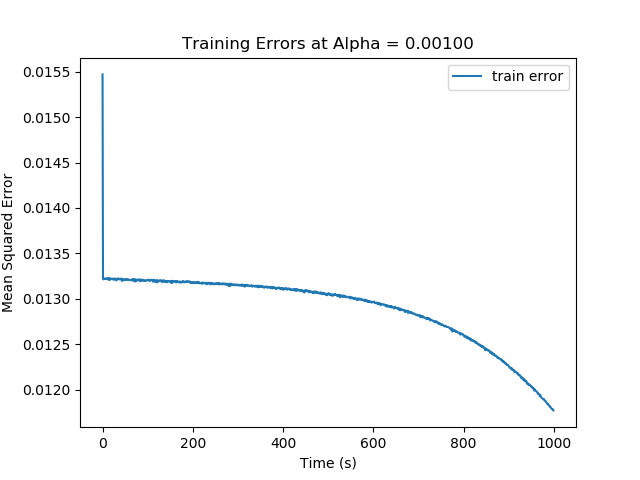
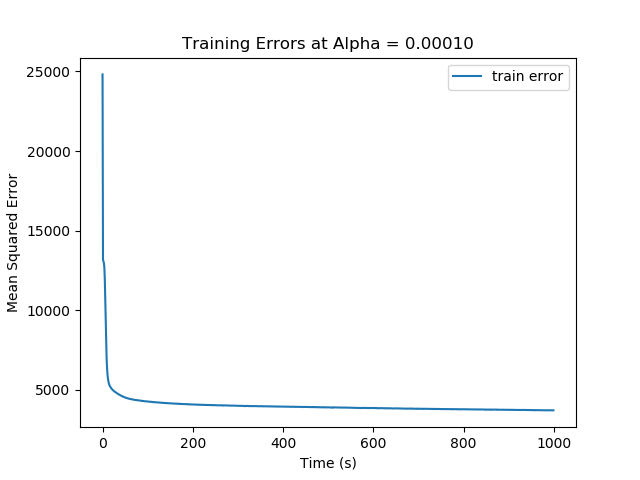
Add final plotting results

diff --git a/Project 1/Project_1b/function.py b/Project 1/Project_1b/function.py
@@ -50,108 +50,6 @@ def scale_normalize(data):
     return data_normalize
 
 
-def generateFunction(learning_rate, no_hidden=hidden):
-    x = T.matrix('x')  # data sample
-    d = T.matrix('d')  # desired output
-
-    w_o = init_weights(no_hidden, 1, False)
-    b_o = init_bias()
-    w_h1 = init_weights(1, no_hidden)
-    b_h1 = init_bias(no_hidden)
-
-    alpha = theano.shared(learning_rate, floatX)
-
-    # Define mathematical expression:
-    h1_out = T.nnet.sigmoid(T.dot(x, w_h1) + b_h1)
-    y = T.dot(h1_out, w_o) + b_o
-
-    cost = T.abs_(T.mean(T.sqr(d - y)))
-    accuracy = T.mean(d - y)
-
-    # define gradients
-    dw_o, db_o, dw_h, db_h = T.grad(cost, [w_o, b_o, w_h1, b_h1])
-
-    train = theano.function(
-        inputs=[x, d],
-        outputs=cost,
-        updates=[[w_o, w_o - alpha * dw_o],
-                 [b_o, b_o - alpha * db_o],
-                 [w_h1, w_h1 - alpha * dw_h],
-                 [b_h1, b_h1 - alpha * db_h]],
-        allow_input_downcast=True
-    )
-
-    test = theano.function(
-        inputs=[x, d],
-        outputs=[y, cost, accuracy],
-        allow_input_downcast=True
-    )
-
-    parameter_dict = {
-        'w_o': w_o,
-        'b_o': b_o,
-        'w_h1': w_h1,
-        'b_h1': b_h1
-    }
-
-    return train, test, parameter_dict
-
-
-def runTrain(train, test, trainX, trainY, testX, testY, epochs, batch_size, parameter_dict):
-    train_cost = np.zeros(epochs)
-    test_cost = np.zeros(epochs)
-    test_accuracy = np.zeros(epochs)
-
-    no_features = trainX.shape[1]
-
-    min_error = 1e+15
-    best_iter = 0
-    best_w_o = np.zeros(no_hidden1)
-    best_w_h1 = np.zeros([no_features, no_hidden1])
-    best_b_o = 0
-    best_b_h1 = np.zeros(no_hidden1)
-    values_dict = {}
-
-    for iter in range(epochs):
-        if iter % 100 == 0:
-            print(iter)
-
-        trainX, trainY = shuffle_data(trainX, trainY)
-
-        costs = []
-
-        for start, end in zip(range(0, len(trainX), batch_size), range(batch_size, len(trainX), batch_size)):
-            # print "start: %d, end: %d \n" % (start, end)
-            indiv_train_cost = train(trainX[start:end:], np.transpose(trainY[start:end]))
-            costs.append(indiv_train_cost)
-
-        train_cost[iter] = np.mean(costs)
-        pred, test_cost[iter], test_accuracy[iter] = test(testX, np.transpose(testY))
-
-        if test_cost[iter] < min_error:
-            best_iter = iter
-            min_error = test_cost[iter]
-            best_w_o = w_o.get_value()
-            best_w_h1 = w_h1.get_value()
-            best_b_o = b_o.get_value()
-            best_b_h1 = b_h1.get_value()
-
-    # set weights and biases to values at which performance was best
-    w_o.set_value(best_w_o)
-    b_o.set_value(best_b_o)
-    w_h1.set_value(best_w_h1)
-    b_h1.set_value(best_b_h1)
-
-    best_pred, best_cost, best_accuracy = test(testX, np.transpose(testY))
-
-    values_dict.update({'best_iter': best_iter, 'best_w_o': best_w_o, 'best_w_h1': best_w_h1,
-                        'best_b_o': best_b_o, 'best_b_h1': best_b_h1, 'best_pred': best_pred,
-                        'best_cost': best_cost, 'best_accuracy': best_accuracy,
-                        'train_cost': train_cost, 'test_cost': test_cost})
-
-    print('Minimum error: %.1f, Best accuracy %.1f, Number of Iterations: %d' % (best_cost, best_accuracy, best_iter))
-
-
 def function_nlayer(no_layers, trainX, trainY, testX, testY, hidden_neurons, learning_rate, epochs, batch_size):
     if no_layers == 3:
         return function(trainX, trainY, testX, testY, hidden_neurons[3], learning_rate, epochs, batch_size)

diff --git a/Project 1/Project_1b/question4.py b/Project 1/Project_1b/question4.py
@@ -11,14 +11,14 @@ no_hidden1 = 60  # num of neurons in hidden layer 1
 no_hidden2 = 20
 no_hidden3 = 20
 folds = 5
-alpha = 0.001
+alpha = 0.0001
 
 
 # read and divide data into test and train sets
 cal_housing = np.loadtxt('cal_housing.data', delimiter=',')
 X_data, Y_data = cal_housing[:, :8], cal_housing[:, -1]
 Y_data = (np.asmatrix(Y_data)).transpose()
-Y_data = Y_data/1e6
+Y_data = Y_data/1e3
 
 # Scale X_data then shuffle data
 X_data = f.scale(X_data)
@@ -46,8 +46,6 @@ hidden_layer_dict = {
     5: no_hidden3
 }
 
-plt.figure()
-
 for hidden_layer in [3, 4, 5]:
     print('For # of hidden layers = %d' % hidden_layer)
     for fold in range(folds):
@@ -71,27 +69,37 @@ for hidden_layer in [3, 4, 5]:
         best_test = test
         best_valuesDict = valuesDict
 
+    plt.figure(0)
+    plt.plot(range(epochs), valuesDict['train_cost'], label='Number of layers = %d' % hidden_layer)
+    plt.figure(1)
     plt.plot(range(epochs), valuesDict['test_cost'], label='Number of layers = %d' % hidden_layer)
 
 print('Best model found at number of layers  = %d' % best_hidden_layer)
 
 # Plots
 # a) Plot the training error against number of epochs for the n-layer network.
+plt.figure(0)
+plt.xlabel('Time (s)')
+plt.ylabel('Mean Squared Error')
+plt.title('Training Errors at Various # of Layers')
+plt.legend()
+plt.savefig('partb_4a_train.png')
+plt.figure(1)
 plt.xlabel('Time (s)')
 plt.ylabel('Mean Squared Error')
 plt.title('Validation Errors at Various # of Layers')
 plt.legend()
-plt.savefig('partb_4a.png')
+plt.savefig('partb_4a_validate.png')
 
 train, test, valuesDict = f.function_nlayer(hidden_layer, trainX, trainY, testX, testY, hidden_layer_dict, alpha, epochs, batch_size)
 
 
 # b) Plot the final test errors of prediction by the network.
-plt.figure()
+plt.figure(2)
 plt.plot(range(epochs), valuesDict['test_cost'], label='test error')
 plt.xlabel('Time (s)')
 plt.ylabel('Mean Squared Error')
 plt.title('Test Errors at # of Layers = %d' % best_hidden_layer)
 plt.legend()
-plt.savefig('partb_4b.png')
+plt.savefig('partb_4b_test.png')
 plt.show()

diff --git a/Project 1/Project_1b/question3.py b/Project 1/Project_1b/question3.py
@@ -38,7 +38,6 @@ best_valuesDict = {}
 train = None
 test = None
 valuesDict = {}
-plt.figure()
 
 for no_hidden1 in no_hidden1_values:
     print('For hidden layer neurons = %d' % no_hidden1)
@@ -63,27 +62,38 @@ for no_hidden1 in no_hidden1_values:
         best_test = test
         best_valuesDict = valuesDict
 
+    plt.figure(0)
+    plt.plot(range(epochs), valuesDict['train_cost'], label='Hidden layer neurons = %d' % no_hidden1)
+    plt.figure(1)
     plt.plot(range(epochs), valuesDict['test_cost'], label='Hidden layer neurons = %d' % no_hidden1)
 
 print('Best model found at hidden layer neurons  = %d' % best_no_hidden1)
 
 # Plots
 # a) Plot the training error against number of epochs for the 3-layer network.
+plt.figure(0)
+plt.xlabel('Time (s)')
+plt.ylabel('Mean Squared Error')
+plt.title('Training Errors at Various # of Hidden Layer Neurons')
+plt.legend()
+plt.savefig('partb_3a_train.png')
+
+plt.figure(1)
 plt.xlabel('Time (s)')
 plt.ylabel('Mean Squared Error')
 plt.title('Validation Errors at Various # of Hidden Layer Neurons')
 plt.legend()
-plt.savefig('partb_3a.png')
+plt.savefig('partb_3a_validate.png')
 
 train, test, valuesDict = f.function(trainX, trainY, testX, testY, best_no_hidden1, alpha, epochs, batch_size)
 
 
 # b) Plot the final test errors of prediction by the network.
-plt.figure()
+plt.figure(2)
 plt.plot(range(epochs), valuesDict['test_cost'], label='test error')
 plt.xlabel('Time (s)')
 plt.ylabel('Mean Squared Error')
 plt.title('Test Errors at # Hidden Layer Neurons = %d' % best_no_hidden1)
 plt.legend()
-plt.savefig('partb_3b.png')
+plt.savefig('partb_3b_test.png')
 plt.show()

diff --git a/Project 1/Project_1b/question2.py b/Project 1/Project_1b/question2.py
@@ -38,7 +38,6 @@ best_valuesDict = {}
 train = None
 test = None
 valuesDict = {}
-plt.figure()
 
 for alpha in alpha_values:
     print('For Alpha = %.5f' % alpha)
@@ -63,28 +62,39 @@ for alpha in alpha_values:
         best_test = test
         best_valuesDict = valuesDict
 
+    plt.figure(0)
+    plt.plot(range(epochs), valuesDict['train_cost'], label='Alpha = %.5f' % alpha)
+    plt.figure(1)
     plt.plot(range(epochs), valuesDict['test_cost'], label='Alpha = %.5f' % alpha)
 
 print('Best model found at Alpha  = %.5f' % best_alpha)
 
 # Plots
 # a) Plot the training error against number of epochs for the 3-layer network.
+plt.figure(0)
+plt.xlabel('Time (s)')
+plt.ylabel('Mean Squared Error')
+plt.title('Training Errors at Various Alphas')
+plt.legend()
+plt.savefig('partb_2a_train.png')
+
+plt.figure(1)
 plt.xlabel('Time (s)')
 plt.ylabel('Mean Squared Error')
 plt.title('Validation Errors at Various Alphas')
 plt.legend()
-plt.savefig('partb_2a.png')
+plt.savefig('partb_2a_validate.png')
 
 train, test, valuesDict = f.function(trainX, trainY, testX, testY, no_hidden1,
                                              best_alpha, epochs, batch_size)
 
 
 # b) Plot the final test errors of prediction by the network.
-plt.figure()
+plt.figure(2)
 plt.plot(range(epochs), valuesDict['test_cost'], label='test error')
 plt.xlabel('Time (s)')
 plt.ylabel('Mean Squared Error')
 plt.title('Test Errors at Alpha = %.5f' % best_alpha)
 plt.legend()
-plt.savefig('partb_2b.png')
+plt.savefig('partb_2b_test.png')
 plt.show()

diff --git a/Project 1/Project_1b/question1.py b/Project 1/Project_1b/question1.py
@@ -10,7 +10,7 @@ epochs = 1000
 # batch_size = 14448
 batch_size = 32
 no_hidden1 = 30  # num of neurons in hidden layer 1
-learning_rate = 1e-3
+learning_rate = 1e-4
 folds = 5
 
 
@@ -18,7 +18,7 @@ folds = 5
 cal_housing = np.loadtxt('cal_housing.data', delimiter=',')
 X_data, Y_data = cal_housing[:, :8], cal_housing[:, -1]
 Y_data = (np.asmatrix(Y_data)).transpose()
-Y_data = Y_data/1e6
+Y_data = Y_data/1e3
 
 # Scale X_data then shuffle data
 X_data = f.scale(X_data)
